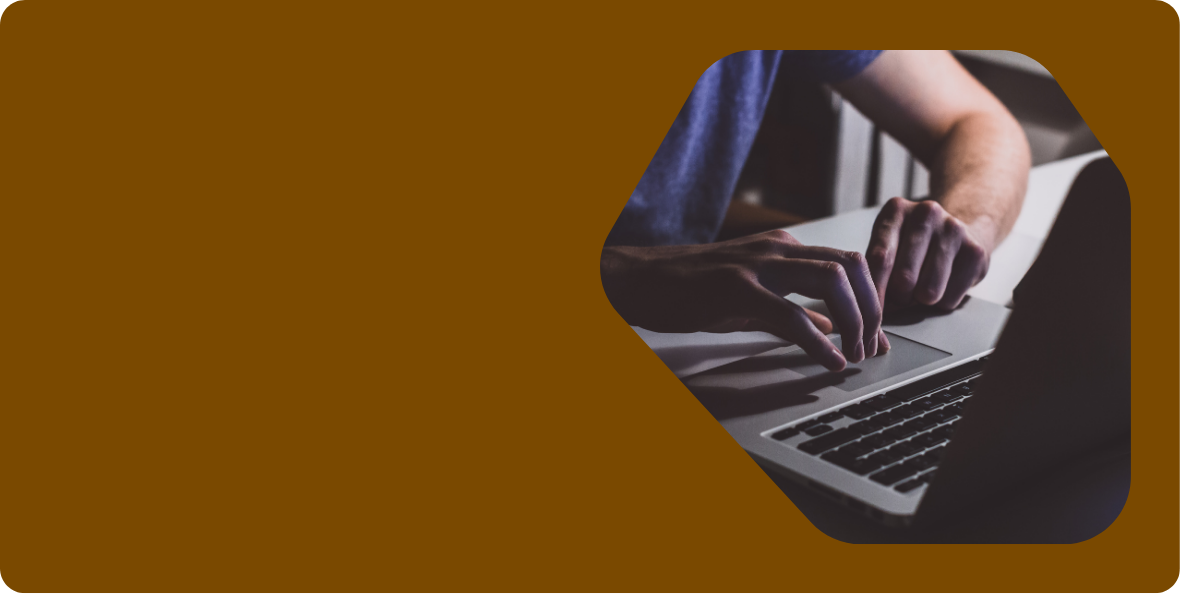
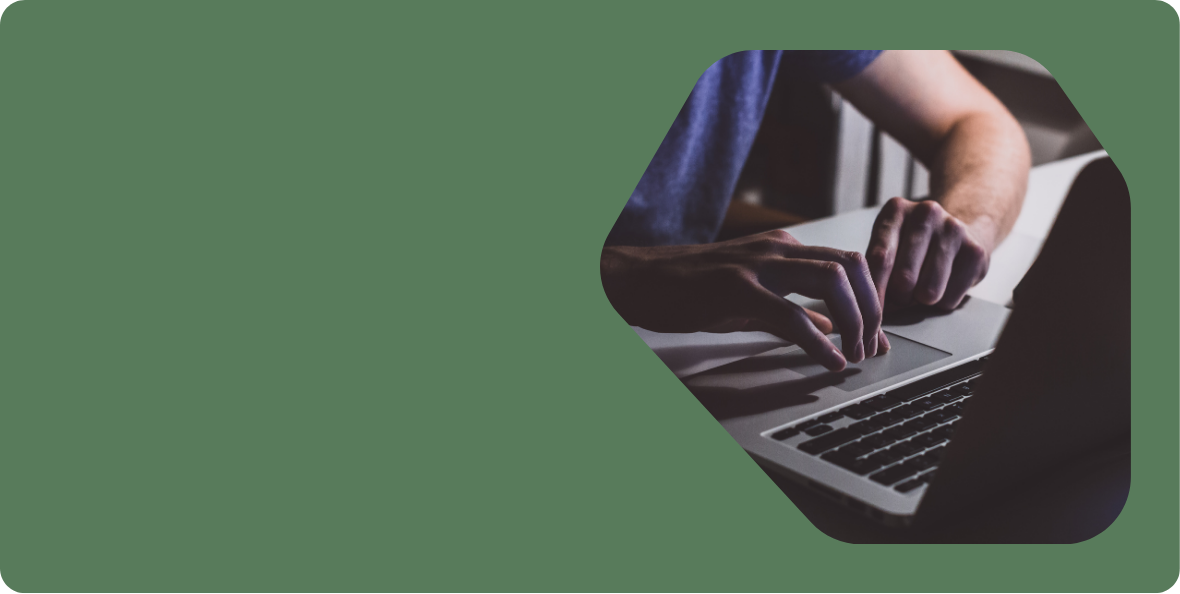
Bg color update

diff --git a/sections/HeroSection.tsx b/sections/HeroSection.tsx
@@ -18,13 +18,13 @@ const HeroSection = () => {
             Empowering students with knowledge, character, and excellence.
           </p>
           <div>
-            <button className="px-6 py-3 text-white outline-2 outline-offset-2 outline-blue-700 hover:bg-blue-700 hover:outline-0 rounded-lg font-medium mr-7">
+            <button className="px-6 py-3 text-white outline-2 outline-offset-2 outline-yellow-900 hover:bg-yellow-900 hover:outline-0 rounded-lg font-medium mr-7">
               Enroll Now
             </button>
-            <button className="px-6 py-3 text-white outline-2 outline-offset-2 outline-blue-700 hover:bg-blue-700 hover:outline-0 rounded-lg font-medium mr-7">
+            <button className="px-6 py-3 text-white outline-2 outline-offset-2 outline-yellow-900 hover:bg-yellow-900 hover:outline-0 rounded-lg font-medium mr-7">
               Learn More
             </button>
-            <button className="px-6 py-3 text-white outline-2 outline-offset-2 outline-blue-700 hover:bg-blue-700 hover:outline-0 rounded-lg font-medium">
+            <button className="px-6 py-3 text-white outline-2 outline-offset-2 outline-yellow-900 hover:bg-yellow-900 hover:outline-0 rounded-lg font-medium">
               Take A virtual Tour
             </button>
           </div>

diff --git a/components/footer.tsx b/components/footer.tsx
@@ -8,7 +8,7 @@ const Footer = () => {
 
   return (
     <footer className=" bottom-0 w-full mx-auto">
-      <div className="bg-yellow-900 px-25 py-12 mx-auto flex justify-between">
+      <div className="bg-greyGreen px-25 py-12 mx-auto flex justify-between">
         <div className="flex gap-x-15">
           <div>
             <a href="#" className="-m-1.5 p-1.5 flex items-center gap-x-5">
